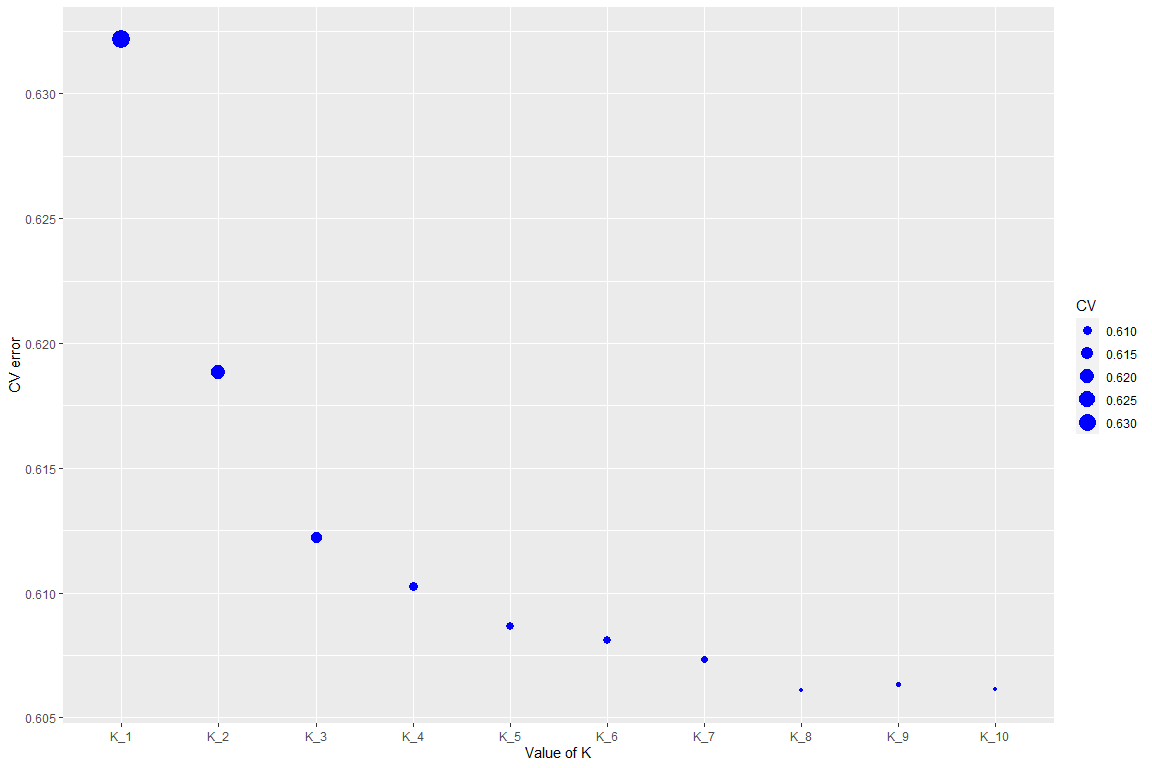
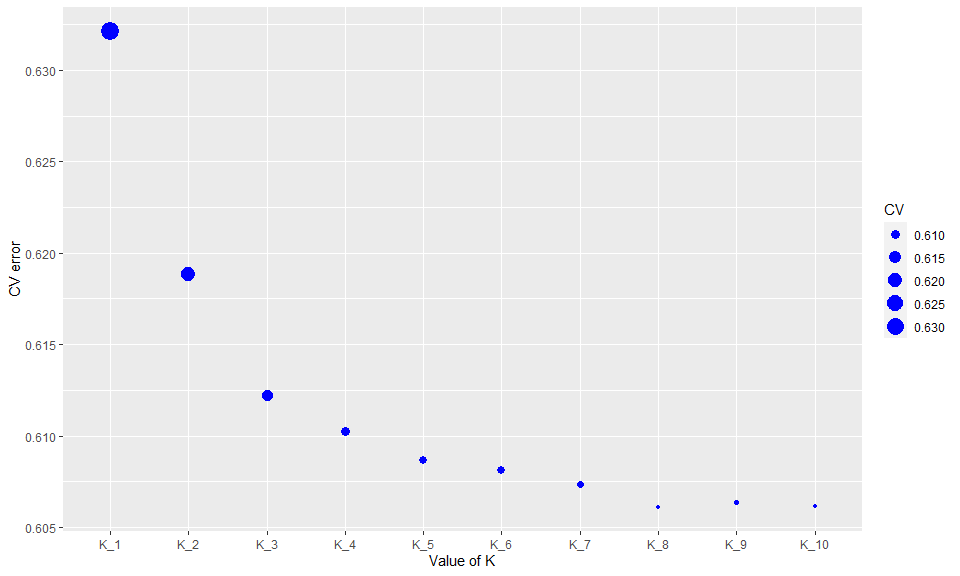
July 8 update-1

diff --git a/A-Nguluma/Popolation-Structure-with-Admixture-and-R.md b/A-Nguluma/Popolation-Structure-with-Admixture-and-R.md
@@ -100,15 +100,39 @@ R. This is for the first run where we tested K values from 2 to 10.
 ``` r
 read.table("data-raw/cv_values.txt", header = F) -> CV_Values
 str(CV_Values)
+```
+
+    ## 'data.frame':    9 obs. of  2 variables:
+    ##  $ V1: chr  "K=10" "K=2" "K=3" "K=4" ...
+    ##  $ V2: num  0.606 0.619 0.612 0.61 0.609 ...
+
+``` r
 colnames(CV_Values) <- c("K_value", "CV")
 CV_Values
+```
 
+    ##   K_value      CV
+    ## 1    K=10 0.60614
+    ## 2     K=2 0.61885
+    ## 3     K=3 0.61223
+    ## 4     K=4 0.61027
+    ## 5     K=5 0.60867
+    ## 6     K=6 0.60811
+    ## 7     K=7 0.60733
+    ## 8     K=8 0.60608
+    ## 9     K=9 0.60634
+
+``` r
 # reorder the K values correctly
 
 CV_Values$K_value <- as.factor(CV_Values$K_value)
 
 levels(CV_Values$K_value)
+```
 
+    ## [1] "K=10" "K=2"  "K=3"  "K=4"  "K=5"  "K=6"  "K=7"  "K=8"  "K=9"
+
+``` r
 #re-order based on acending values of the cv
 #CV_Values$K_value <- reorder(CV_Values$K_value, CV_Values$CV, order = T)
 
@@ -118,6 +142,20 @@ plot(CV_Values$CV, type = "o")
 
 # in ggplot
 require(ggplot2)
+```
+
+    ## Loading required package: ggplot2
+
+<div class="figure" style="text-align: center">
+
+<img src="Popolation-Structure-with-Admixture-and-R_files/figure-gfm/cv-fig-1-1.png" alt="Graph of CV values!" width="100%" />
+<p class="caption">
+Graph of CV values!
+</p>
+
+</div>
+
+``` r
 #par(mar = c(4, 4, .1, .1))
 
 cv_plot <- 
@@ -125,8 +163,17 @@ cv_plot <-
   geom_point(aes(size = CV), colour = "blue")+
   xlab("Value of K") + ylab("CV error") 
 
-cv_plot
+print(cv_plot)
 ```
+
+<div class="figure" style="text-align: center">
+
+<img src="Popolation-Structure-with-Admixture-and-R_files/figure-gfm/cv-fig-1-2.png" alt="Graph of CV values!" width="100%" />
+<p class="caption">
+Graph of CV values!
+</p>
+
+</div>
 
 From the above plot we see that the least CV error is when we have a
 possible 8 underlying populations, and closely followed by 10
@@ -223,8 +270,9 @@ barplot(t(as.matrix(pop_all)),col=rainbow(C),xlab="", ylab="", border=NA, axes =
 #dev.off()
 ```
 
-![Structure\_K8\_fig](results/Structure_plot_K8.svg) We re-run the
-admixture, testing K values from 1 to 10. Let’s plot this.
+![Structure\_K8\_fig](results/Structure_plot_K8.svg)
+
+We re-run the admixture, testing K values from 1 to 10. Let’s plot this.
 
 ``` r
 read.table("data-raw/CV_values_1-10_July_2.txt", header = F) -> CV_Values
@@ -275,11 +323,7 @@ levels(CV_Values$cluster)
 
 # in ggplot
 require(ggplot2)
-```
 
-    ## Loading required package: ggplot2
-
-``` r
 cv_plot <- 
   ggplot(CV_Values, aes(x=cluster, y=CV)) + 
   geom_point(aes(size = CV), colour = "blue")+
@@ -651,8 +695,20 @@ barplot(t(as.matrix(pop_all)),
         border=NA, axes = FALSE, axisnames = F,
         las=2,cex.names=0.6, 
         main = "Structure like plot of Athumani Goat data at K value of 9 with data filtered at LD=0.02")
+```
 
-barplot(t(as.matrix(pop_all)),col=rainbow(C),xlab="", ylab="", border=NA, axes = FALSE, axisnames = F)
+<div class="figure" style="text-align: center">
+
+<img src="Popolation-Structure-with-Admixture-and-R_files/figure-gfm/structure-fig-2-1.png" alt="Structure like plot of Athumani Goat data at K value of 9 with data filtered at LD=0.02" width="100%" />
+<p class="caption">
+Structure like plot of Athumani Goat data at K value of 9 with data
+filtered at LD=0.02
+</p>
+
+</div>
+
+``` r
+#barplot(t(as.matrix(pop_all)),col=rainbow(C),xlab="", ylab="", border=NA, axes = FALSE, axisnames = F)
 
 #svg(filename = "results/K-8-structure-plot.svg", width = 15, height = 10)
 #barplot(t(as.matrix(pop_all)),width=2,col=rainbow(C),xlab="", ylab="", border=NA,axes = FALSE, axisnames = TRUE,las=2,cex.names=0.6)
